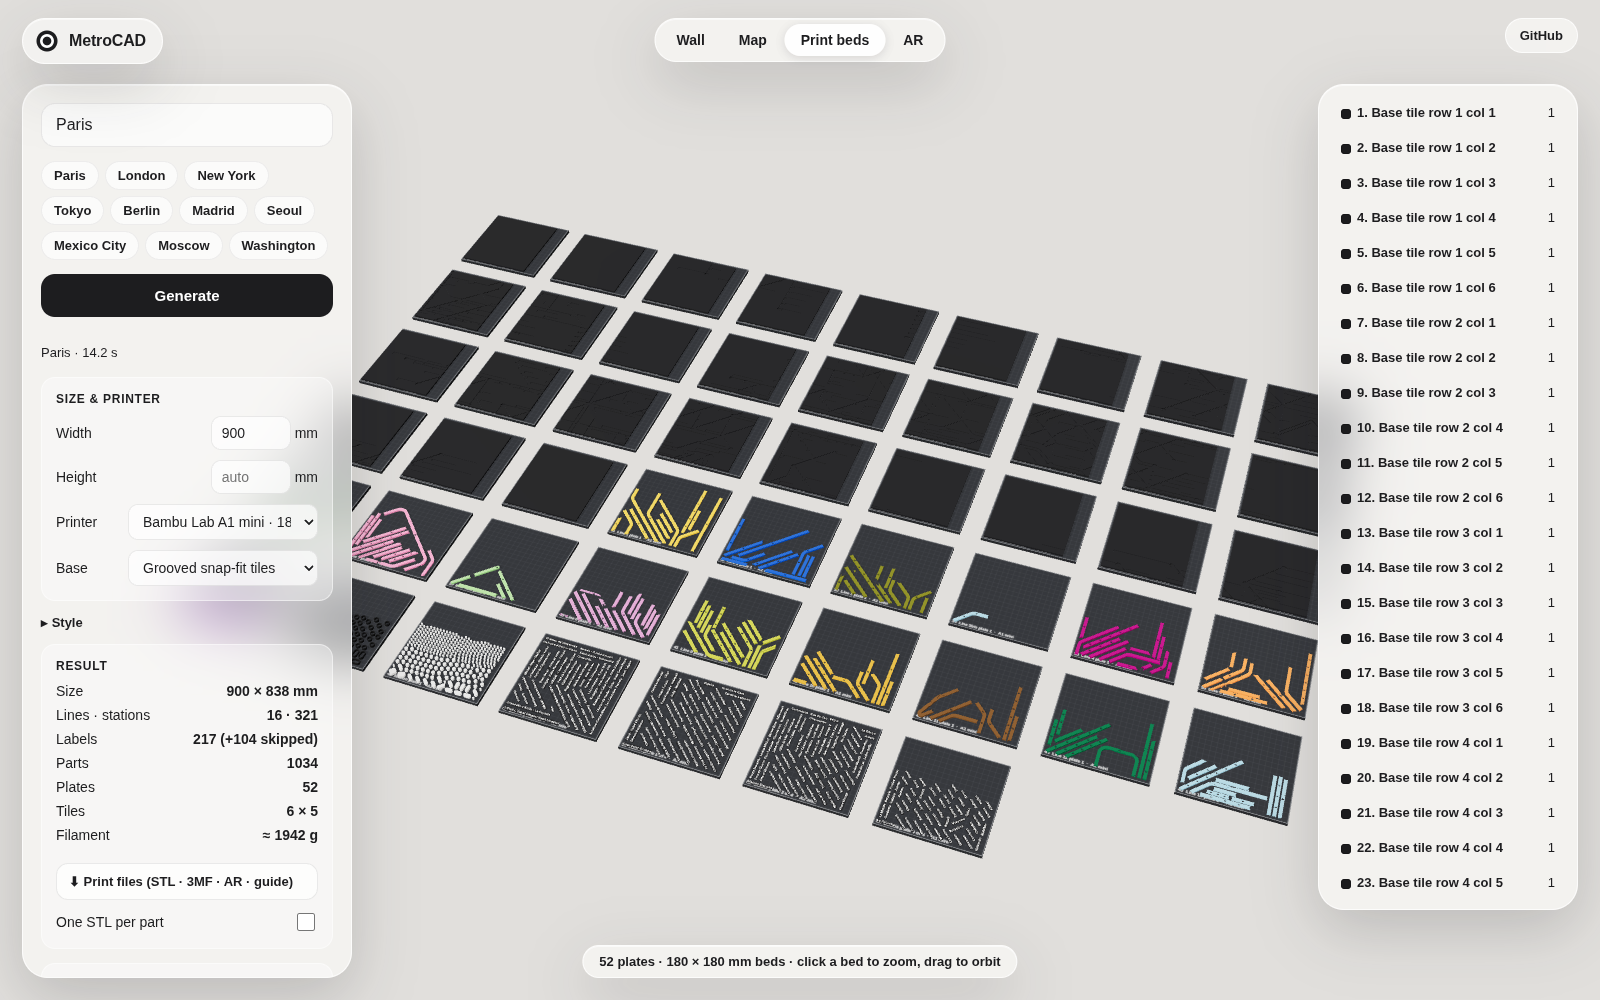
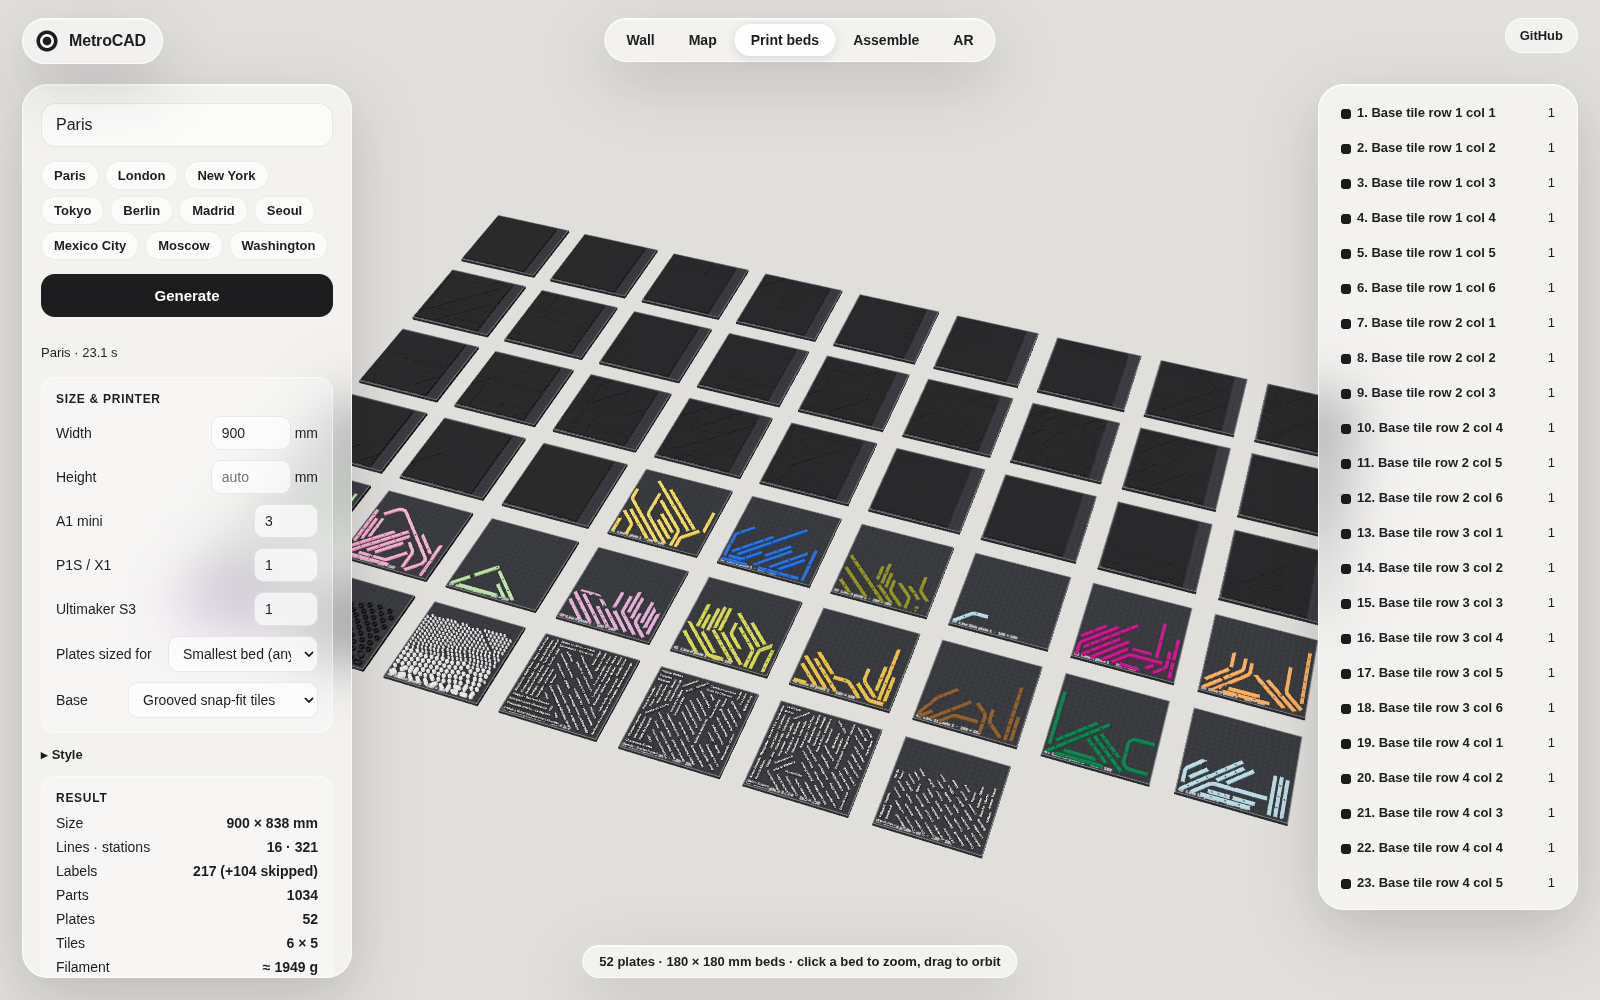
Layout fidelity: geographic anchoring and length clamps, stronger centre fisheye; refreshed city renders; test timeouts
Claude-Session: https://claude.ai/code/session_01MBsjaw49DwxCbAxCaJEcQU

diff --git a/packages/core/src/layout/force.ts b/packages/core/src/layout/force.ts
@@ -13,6 +13,11 @@ export interface ForceOptions {
   seed: number;
   /** Corridor target length: hops^exponent (compresses long suburban chains). */
   lengthExponent: number;
+  /** Constant pull towards the (fisheye) geographic position. */
+  anchor: number;
+  /** Corridor length may not shrink below fidelityMin × or grow beyond fidelityMax × its geographic length. */
+  fidelityMin: number;
+  fidelityMax: number;
 }
 
 const OCT = Math.PI / 4;
@@ -66,6 +71,15 @@ export function layoutReducedGraph(graph: StationGraph, opts: ForceOptions): voi
   normalizeScale(majors, corridors, targetLen, nodes);
   const anchor = new Map<string, Vec2>();
   for (const n of majors) anchor.set(n.id, [...n.pos] as Vec2);
+  // Official diagrams keep proportions roughly geographic: a corridor may shrink/stretch only so far
+  // from its (fisheye) geographic length. This is what keeps line 1 in Paris straight west–east.
+  const geoLen = new Map<string, number>();
+  for (const c of corridors) geoLen.set(c.id, dist(nodes.get(c.a)!.pos, nodes.get(c.b)!.pos));
+  const targetLenClamped = (c: Corridor) => {
+    const g = geoLen.get(c.id) ?? 1;
+    const t = targetLen(c);
+    return Math.max(t, Math.min(Math.max(t, g * opts.fidelityMin), g * opts.fidelityMax));
+  };
 
   const random = rng(opts.seed);
   for (const n of majors) n.pos = add(n.pos, [(random() - 0.5) * 0.01, (random() - 0.5) * 0.01]);
@@ -80,9 +94,9 @@ export function layoutReducedGraph(graph: StationGraph, opts: ForceOptions): voi
   for (let it = 0; it < iters; it++) {
     const t = it / iters;
     const temp = 0.35 * (1 - t) + 0.03;                 // step size
-    const wOct = S * (0.15 + 1.2 * t);                   // octilinear grows over time
+    const wOct = S * (0.15 + 0.9 * t);                   // octilinear grows over time
     const wLen = 0.5;
-    const wAnchor = (1 - S) * 0.15 + 0.02 * (1 - t);    // geography fades
+    const wAnchor = (1 - S) * 0.15 + opts.anchor * (1 - 0.5 * t);   // geography keeps pulling
     for (const d of disp) { d[0] = 0; d[1] = 0; }
 
     // Corridor springs: length + octilinear direction
@@ -92,7 +106,7 @@ export function layoutReducedGraph(graph: StationGraph, opts: ForceOptions): voi
       const d = sub(b.pos, a.pos);
       const L = len(d);
       if (L < 1e-9) continue;
-      const T = targetLen(c);
+      const T = targetLenClamped(c);
       const dir = norm(d);
       // length
       const f = (L - T) * wLen;

diff --git a/packages/core/src/layout/index.ts b/packages/core/src/layout/index.ts
@@ -44,8 +44,8 @@ export function computeLayout(net: MetroNetwork, params: DesignParams, font: Tex
   const graph = buildStationGraph(net);
   const lo = params.layout;
   const strength = lo.mode === 'geographic' ? 0 : lo.schematicStrength;
-  layoutReducedGraph(graph, { strength, fisheye: lo.fisheye, iterations: lo.iterations, seed: lo.seed, lengthExponent: 0.75 });
-  if (strength > 0.5) { snapToGrid(graph, 1); straighten(graph, 1, 6); }
+  layoutReducedGraph(graph, { strength, fisheye: lo.fisheye, iterations: lo.iterations, seed: lo.seed, lengthExponent: 0.8, anchor: 0.12, fidelityMin: 0.6, fidelityMax: 1.7 });
+  if (strength > 0.5) { snapToGrid(graph, 1); straighten(graph, 1, 4); }
 
   // Regular (interior) stations: positions come from corridor paths later.
   const majors = [...graph.nodes.values()].filter((n) => n.major);

diff --git a/packages/core/vitest.config.ts b/packages/core/vitest.config.ts
@@ -1,2 +1,2 @@
 import { defineConfig } from 'vitest/config';
-export default defineConfig({ test: { include: ['src/**/*.test.ts'], testTimeout: 60000 } });
+export default defineConfig({ test: { include: ['src/**/*.test.ts'], testTimeout: 120000, hookTimeout: 180000 } });

diff --git a/packages/core/src/defaults.ts b/packages/core/src/defaults.ts
@@ -47,7 +47,7 @@ export const DEFAULT_PARAMS: DesignParams = {
   layout: {
     mode: 'schematic',
     schematicStrength: 1,
-    fisheye: 0.35,
+    fisheye: 0.55,
     minSpacing: 1,
     iterations: 500,
     seed: 7,
